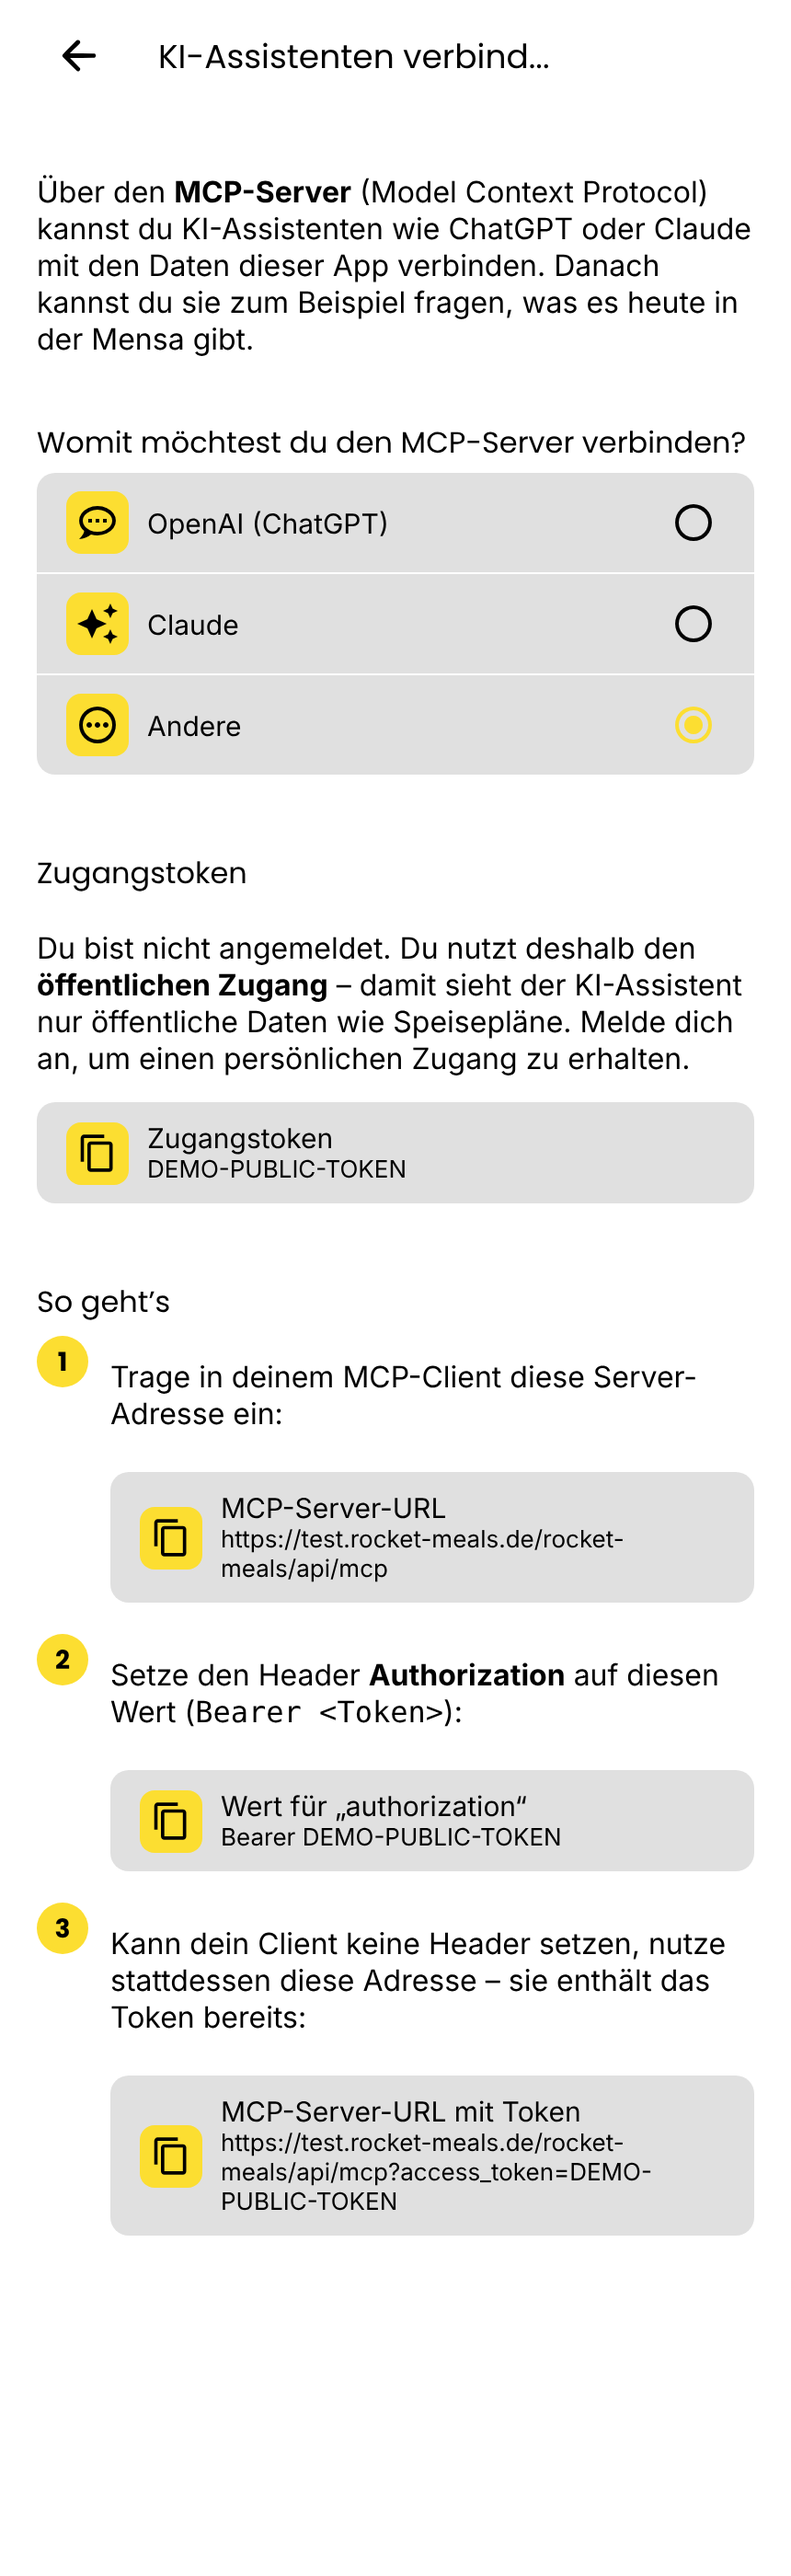
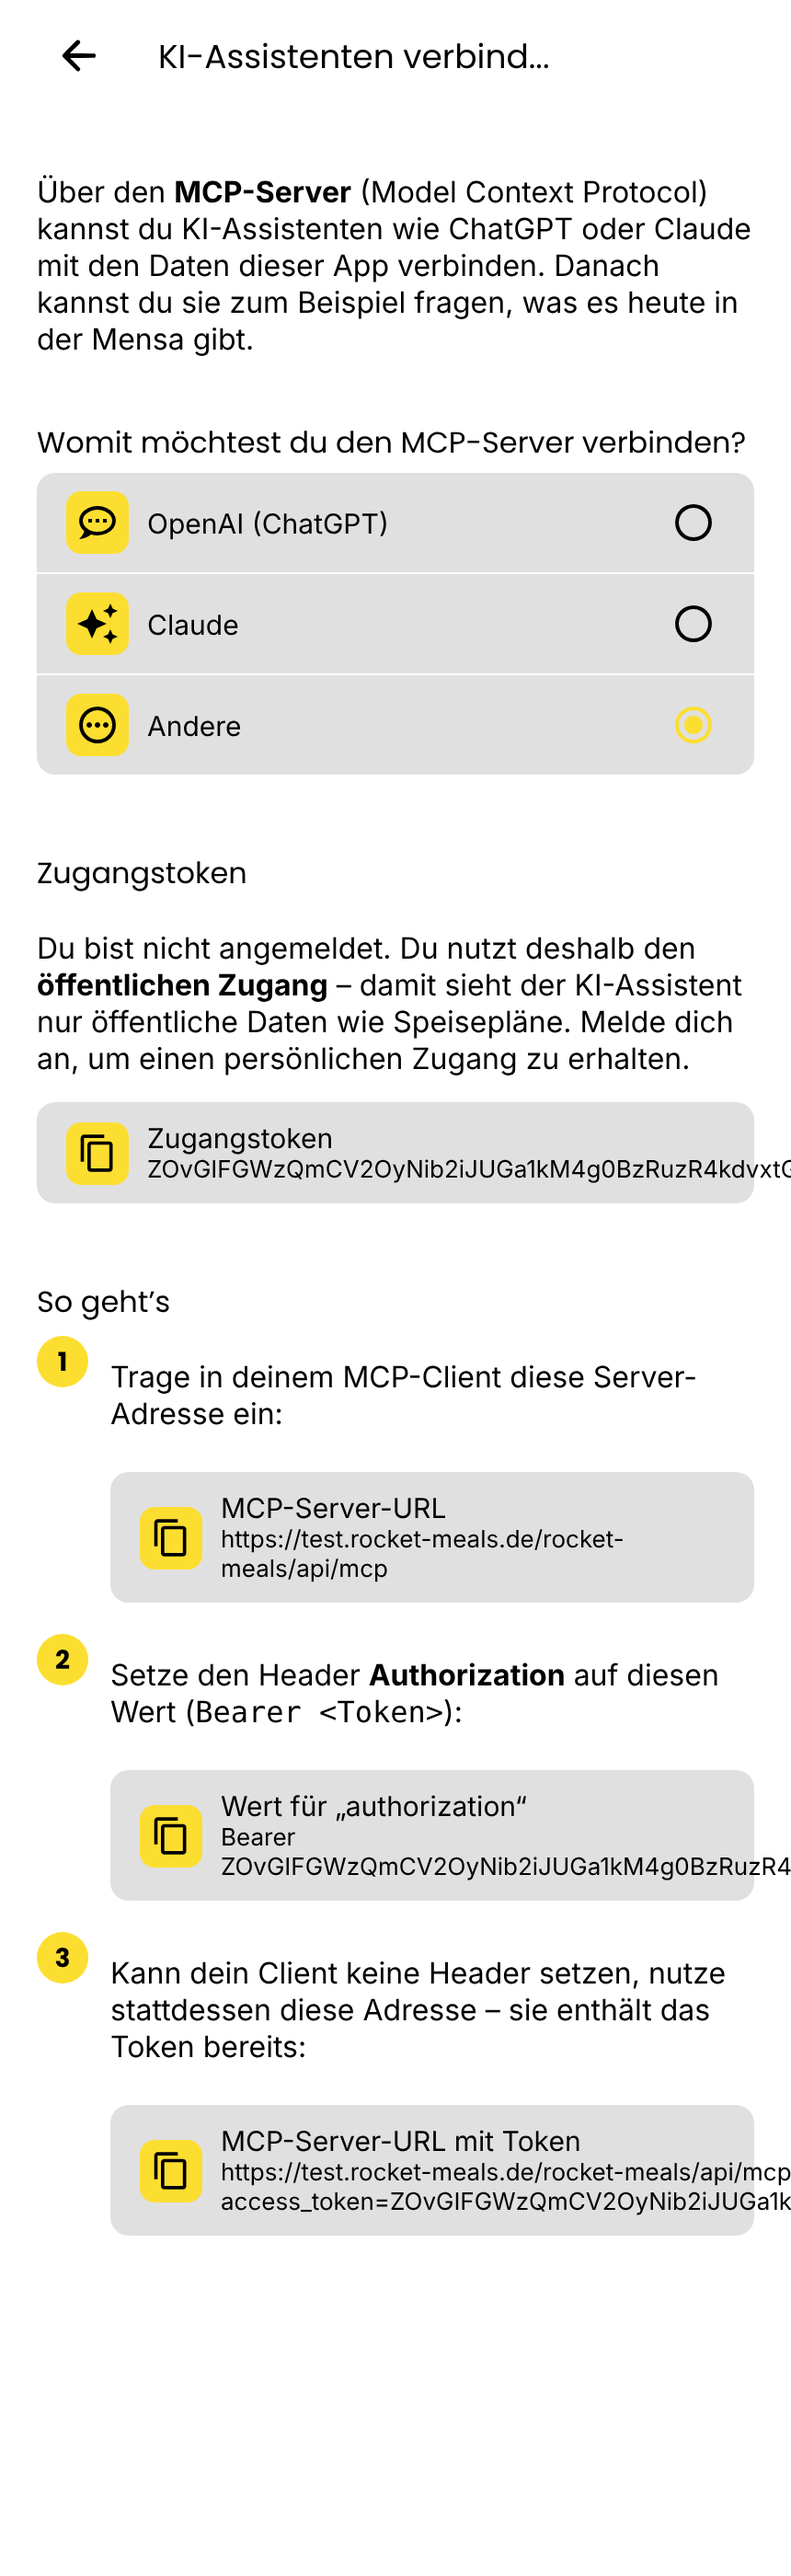
fix(backend): generate MCP tokens with NanoidHelper instead of node:crypto
node:crypto must not be used in the bundle - the forbidden packages are now
listed in the bundle README (and referenced from AGENTS.md). Screenshots show
a generated-looking public token instead of a placeholder.

Claude-Session: https://claude.ai/code/session_01VjtJjNbVttR9DdnJnXU5Zj

diff --git a/apps/backend/Backend/directusExtensions/directus-extension-rocket-meals-bundle/src/helpers/McpAccessTokenHelper.ts b/apps/backend/Backend/directusExtensions/directus-extension-rocket-meals-bundle/src/helpers/McpAccessTokenHelper.ts
@@ -1,11 +1,11 @@
-import { randomBytes } from 'node:crypto';
 import { PrimaryKey } from '@directus/types';
 import { McpAccessHelper } from 'repo-depkit-common';
 import { MyDatabaseHelper } from './MyDatabaseHelper';
+import { NanoidHelper } from './NanoidHelper';
 
 const HELPER_NAME = 'McpAccessTokenHelper';
 
-const TOKEN_BYTES = 32;
+const TOKEN_LENGTH = 64;
 
 /**
  * Statische Directus-Tokens für den MCP-Server (`<PUBLIC_URL>/mcp`).
@@ -17,8 +17,8 @@ const TOKEN_BYTES = 32;
 export class McpAccessTokenHelper {
   constructor(private readonly myDatabaseHelper: MyDatabaseHelper) {}
 
-  static generateToken(): string {
-    return randomBytes(TOKEN_BYTES).toString('base64url');
+  static async generateToken(): Promise<string> {
+    return await NanoidHelper.getNanoid(TOKEN_LENGTH);
   }
 
   async readToken(userId: PrimaryKey): Promise<string | null> {
@@ -33,7 +33,7 @@ export class McpAccessTokenHelper {
     if (existingToken) {
       return existingToken;
     }
-    const token = McpAccessTokenHelper.generateToken();
+    const token = await McpAccessTokenHelper.generateToken();
     await this.myDatabaseHelper.getUsersHelper().updateOne(userId, { token });
     return token;
   }
@@ -55,7 +55,7 @@ export class McpAccessTokenHelper {
     const existingUser = existingUsers[0];
 
     if (!existingUser) {
-      const token = McpAccessTokenHelper.generateToken();
+      const token = await McpAccessTokenHelper.generateToken();
       await usersHelper.createOne({
         email: McpAccessHelper.PUBLIC_USER_EMAIL,
         first_name: McpAccessHelper.PUBLIC_USER_NAME,

diff --git a/AGENTS.md b/AGENTS.md
@@ -187,6 +187,11 @@ Gilt für **alle Apps** (`apps/frontend`, `apps/geonexia`, `apps/score-tracker`)
   - common-ui: `SettingsListTextInput`, `SettingsListNumberInput`, `SettingsListDate` folgen dem Muster bereits.
 - `TextInput` auf normalen Screens (außerhalb von Sheets) ist in Ordnung. **Achtung umgekehrt:** `BottomSheetTextInput` wirft auf Native außerhalb eines BottomSheet — Komponenten, die sowohl auf Screens als auch in Sheets verwendet werden, brauchen einen Opt-in-Prop (siehe `insideBottomSheet` in `apps/frontend/app/components/SingleLineInput/SingleLineInput.tsx`).
 
+## Verbotene Pakete im Backend
+
+- **Niemals `node:crypto` (bzw. `crypto`) importieren.** Für zufällige IDs und Tokens unseren `NanoidHelper` (`apps/backend/Backend/directusExtensions/directus-extension-rocket-meals-bundle/src/helpers/NanoidHelper.ts`) oder den Directus-Endpoint `GET <PUBLIC_URL>/utils/random/string` verwenden.
+- Die vollständige Liste steht in `apps/backend/Backend/directusExtensions/directus-extension-rocket-meals-bundle/README.md` unter „Verbotene Pakete“.
+
 ## String replacement
 
 - **Never use `String.prototype.replaceAll()` or `String.prototype.replace()` for simple substitutions.** Use `StringHelper` from `repo-depkit-common` instead:

diff --git a/apps/backend/Backend/directusExtensions/directus-extension-rocket-meals-bundle/README.md b/apps/backend/Backend/directusExtensions/directus-extension-rocket-meals-bundle/README.md
@@ -6,6 +6,14 @@ Currently when we want to apply a change we need to move the extension out of th
 folder and then back in to the directusExtensions folder. Then start directus, remove the not found
 extension, stop the server and then move the extension back in and start the server again.
 
+## Verbotene Pakete
+
+Diese Pakete/Module dürfen im Bundle **nicht** importiert werden:
+
+| Paket | Stattdessen |
+| --- | --- |
+| `node:crypto` / `crypto` | Zufällige IDs und Tokens über unseren eigenen Helper `src/helpers/NanoidHelper.ts` (`NanoidHelper.getNanoid(länge)`) oder über den Directus-Endpoint `GET <PUBLIC_URL>/utils/random/string` (z. B. `https://test.rocket-meals.de/rocket-meals/api/utils/random/string`). |
+
 # Rocket Meals Extension
 
 https://docs.directus.io/extensions/bundles.html
